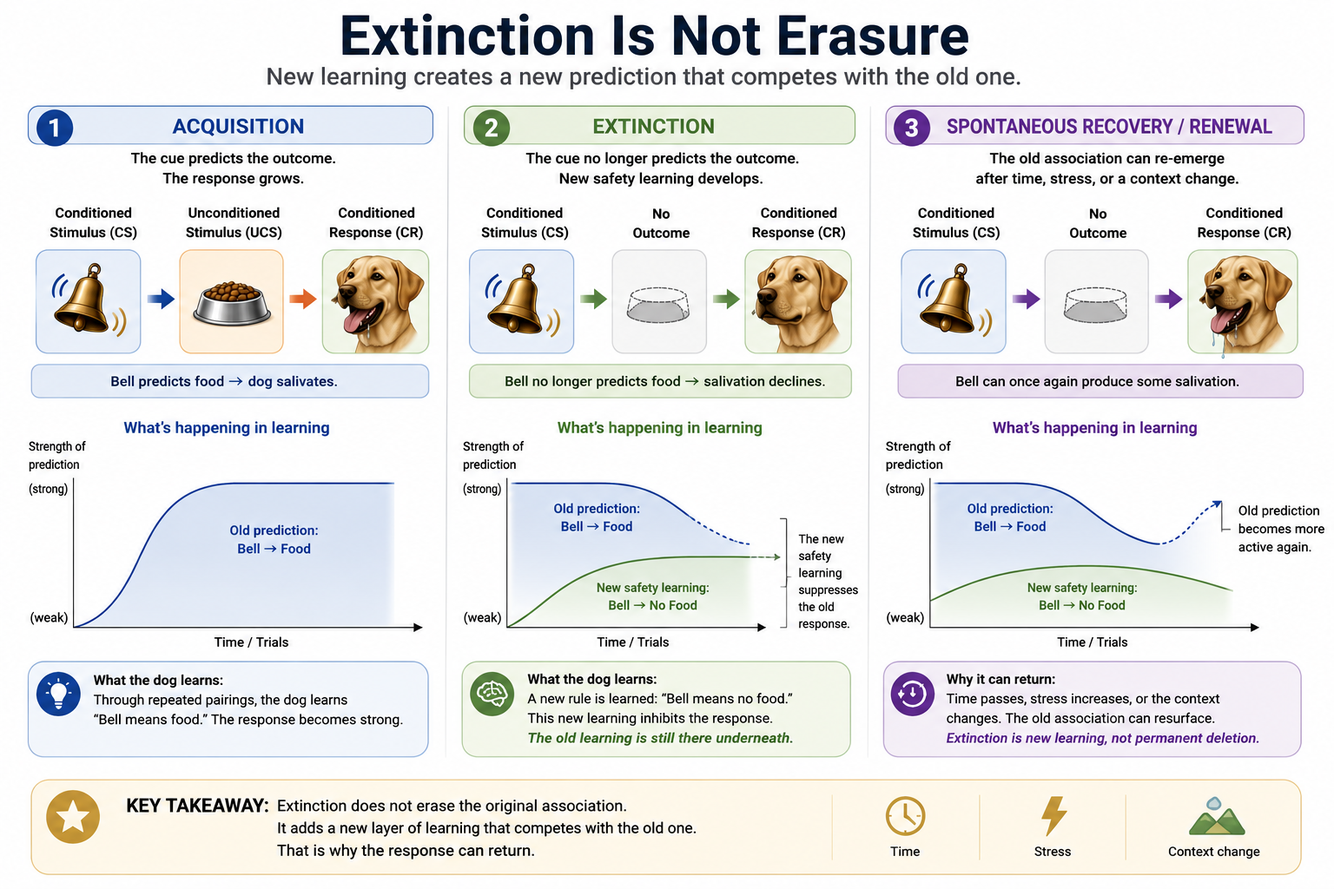
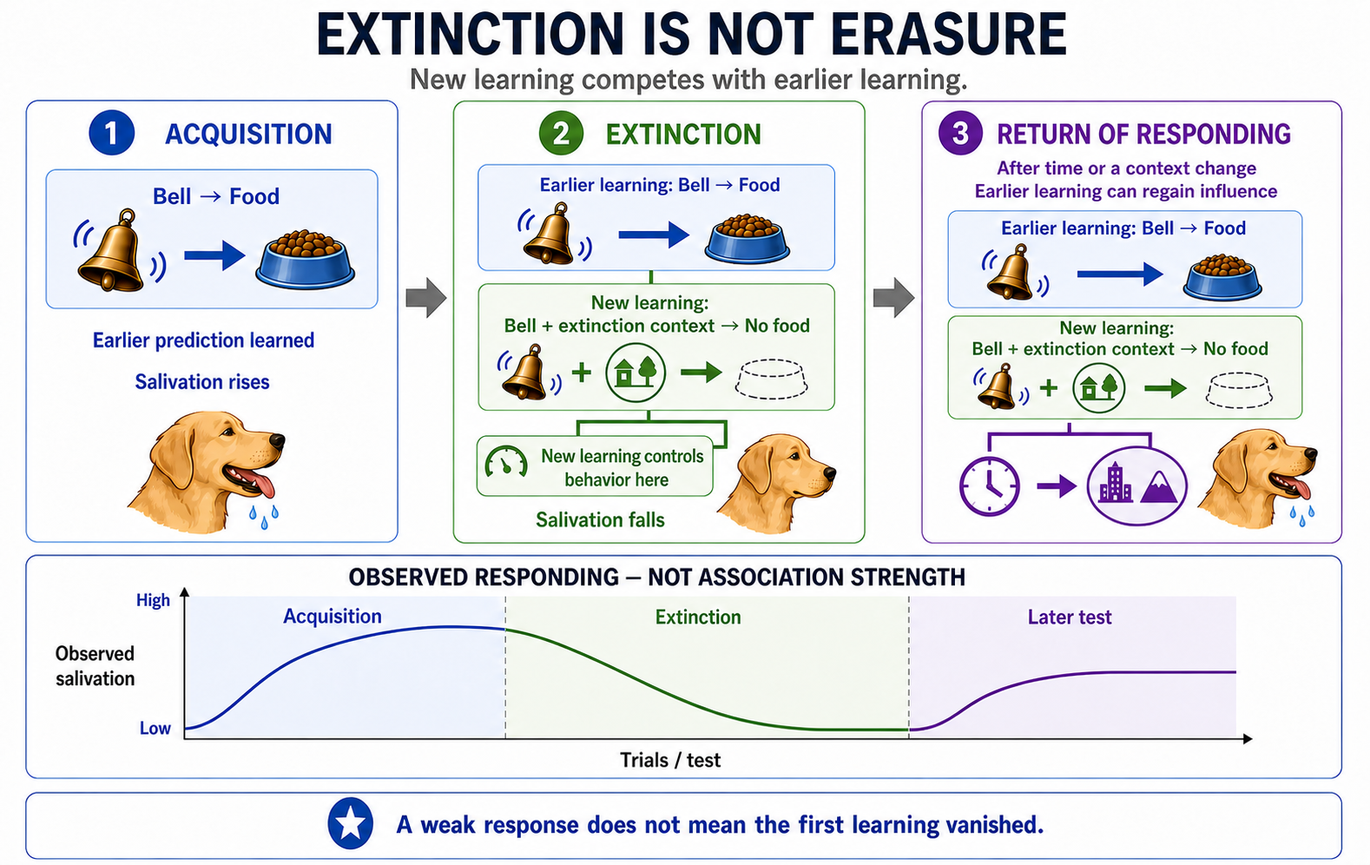
Fix Figure 7.2 extinction learning diagram
Project log: 2026-08-16 - Figure 7.2 Rebuilt to Separate Extinction Learning from Observed Responding

diff --git a/docs/chapters/07-learning.html b/docs/chapters/07-learning.html
@@ -44,7 +44,7 @@
 </div>
 <p><strong>Acquisition</strong> is the initial learning period, when the CS begins to predict the UCS and conditioned responding develops. If the CS later occurs repeatedly without the UCS — Pavlov&#39;s tone sounds but food never follows — responding weakens. This is <strong>extinction</strong>. Extinction does not reliably return the organism to its pre-learning state. Instead, the organism learns a new relationship: in this context, the CS no longer predicts the UCS.</p>
 <p>That distinction explains why extinguished responding can return. <strong>Spontaneous recovery</strong> is the reappearance of a weakened CR after time has passed. <strong>Renewal</strong> is the return of responding when the CS is encountered outside the context in which extinction occurred. Reinstatement and stress can also help older learning regain control. Extinction begins with a prediction error: the expected UCS fails to arrive. That mismatch teaches a new, context-sensitive relationship that competes with acquisition while leaving the earlier learning available.</p>
-<figure class="chapter-figure expandable"><a class="figure-expand-toggle" href="../images/ch07/fig_extinction_not_erasure.png" aria-label="Expand figure" aria-expanded="false"><img src="../images/ch07/fig_extinction_not_erasure.png" alt="Three-panel diagram of acquisition, extinction, and return of responding. Acquisition strengthens a bell-to-food prediction. Extinction adds a context-sensitive bell-to-no-food prediction that competes with the original. Spontaneous recovery or renewal shows the original relation regaining influence after time, stress, or a context change." /></a><figcaption><strong>Figure 7.2.</strong> Extinction is new learning, not simple erasure. A new prediction competes with the original association, so responding can remain low in the extinction context yet return after time or a context change. The diagram is a teaching model, not a literal map of stored associations.</figcaption></figure>
+<figure class="chapter-figure expandable"><a class="figure-expand-toggle" href="../images/ch07/fig_extinction_not_erasure.png" aria-label="Expand figure" aria-expanded="false"><img src="../images/ch07/fig_extinction_not_erasure.png" alt="Three-stage infographic separating inferred learning from observed responding. Acquisition shows Bell to Food learning with salivation rising. During extinction, the earlier Bell to Food relationship remains visible while a new Bell plus extinction context to No food relationship controls behavior and salivation falls. After time or a context change, the earlier learning may regain influence and salivation may return. A lower curve is explicitly labeled observed responding, not association strength." /></a><figcaption><strong>Figure 7.2.</strong> Extinction adds new, context-sensitive learning rather than erasing the earlier relationship. Responding falls when the new Bell + extinction context → No food relationship controls behavior, but the earlier Bell → Food relationship remains available. After time or a context change, the earlier learning can regain influence and responding may return. The lower curve shows observable responding, not stored association strength.</figcaption></figure>
 <p>Two more processes round out the basic toolkit. <strong>Generalization</strong> is the tendency for a CR to occur to stimuli that resemble the original CS. A dog conditioned to one tone may also salivate to a similar tone that was never paired with food. <strong>Discrimination</strong> is learning to respond differently to similar stimuli because they predict different outcomes. These are not opposite theories. Generalization can occur because two cues are perceptually difficult to distinguish or because the organism has not learned that their differences predict different outcomes. Discrimination requires both detecting a difference and learning that the difference matters. This is where sensation and learning meet: experience can sharpen responding only when the sensory system provides information that can be used.</p>
 <div class="callout callout--classic-study" id="classic-study-watson-and-rayners-little-albert"><div class="callout-title">Classic Study: Watson and Rayner&#39;s &quot;Little Albert&quot;</div><p>In 1920, John B. Watson and Rosalie Rayner attempted to condition fear in an infant they called &quot;Albert B.&quot; Albert initially showed little fear of a white rat. Watson and Rayner then paired the rat with a loud noise made by striking a steel bar behind him. After several pairings, Albert sometimes cried, withdrew, or tried to move away when the rat appeared without the noise. Watson and Rayner also reported responses to other furry objects, which they interpreted as generalization (Watson &amp; Rayner, 1920).</p>
 <p>Little Albert is memorable, but it is weak evidence by modern standards: one infant, no control group, inconsistent response measurement, and uncertain generalization. The ethics are clearer. Watson and Rayner deliberately produced distress and did not complete a deconditioning procedure before Albert left the hospital. Treat the study as a historically important, ethically troubling illustration of conditioned emotional responding — not as a definitive explanation of how human phobias develop (Harris, 1979).</p></div><div class="callout callout--stop-retrieve">

diff --git a/HANDOFF.md b/HANDOFF.md
@@ -1,13 +1,13 @@
 # Psych101 — Current Handoff
 
-**Last updated:** 2026-08-16 (Figure 4.6 / F-017 repaired and installed; the bookwide figure queue now continues with Figure 7.2 / F-018. Chapter 4 figure metadata and the temporary figure audit were reconciled; the redundant duplicate Figure 4.6 PNG was removed while the editable SVG source was retained.)
+**Last updated:** 2026-08-16 (Figure 7.2 / F-018 repaired and installed; the bookwide figure queue now continues with Figure 7.9 / F-019. Chapter 7 source, generated HTML, figure metadata, durable inventory, and the temporary figure audit are synchronized.)
 **Canonical repository:** `C:\GitHub\psych101`
 
 This file records current state only. See `GPT_project_log.md` for completed-work history, `PROJECT_BACKLOG.md` for durable deferred work, and `AGENTS.md` for operating rules.
 
 ## Current state
 
-**Figure 4.6 (F-017) is resolved as of 2026-08-16.** The former artwork claimed “same pixels” while visibly showing different rendered side scenes. The replacement presents one fixed digital image once, then branches into two alternative illumination assumptions and two inferred surface-color interpretations. The corrected PNG was installed at the chapter’s existing `ch04_same_pixels_illumination_assumptions_v1.png` path, so neither chapter Markdown nor generated HTML required a path change. An editable companion SVG, `docs/images/ch04/ch04_same_input_two_illumination_models.svg`, is retained. The temporary figure audit and Chapter 4 image metadata now record the repair. The ranked queue continues with Figure 7.2 (F-018), the extinction/inhibitory-learning figure.
+**Figure 7.2 (F-018) is resolved as of 2026-08-16.** The former artwork visibly weakened the old Bell → Food prediction during extinction, contradicting the chapter's account of competing, context-sensitive learning. The replacement keeps the earlier relationship available, adds Bell + extinction context → No food learning, and puts acquisition, extinction, and partial return on one lower curve explicitly labeled as observed responding rather than association strength. A final instructor-approved refinement added a clock-to-new-context cue to make spontaneous recovery/renewal legible without adding more prose. The replacement was installed at the existing `docs/images/ch07/fig_extinction_not_erasure.png` path; Chapter 7 source, generated HTML, metadata, durable inventory, and the temporary audit are synchronized. The chapter linter passes 14/14; the coherence checker has no hard failures; expanded/collapsed browser checks at five viewports found no horizontal overflow or console errors. The ranked queue continues with Figure 7.9 (F-019), the task/population boundary in the dopamine prediction-error artwork.
 
 **The Ch13/Ch10 spine-question item from the 2026-08-09 audit is closed as of 2026-08-12.** Ch13's registered spine question — "When does a protective model become costly?" — is now installed via three seam sentences (Section 1 maintenance lens, the anxiety section's existing Nesse citation, and the Chapter Summary, added alongside rather than replacing "symptoms are evidence, not verdicts"). Ch10's opening framing question now reads "Why does it take humans so much longer to grow up than other animals?", matching its own registered question verbatim. `pipeline/lint_chapters.py` passes 14/14; the coherence checker's Ch10 spine-question flag is gone, and Ch13's remains as a documented, non-blocking checker limitation (verbatim-substring matching against paraphrased seams) — see `GPT_project_log.md`, 2026-08-12, for the literature check (Nesse, 2005) and full detail. Committed as `dda3c82` (2026-08-12).
 
@@ -41,7 +41,7 @@ This file records current state only. See `GPT_project_log.md` for completed-wor
 
 Chapter 3's former signaling/autonomic problem is also resolved. Figures 3.5 and 3.6 now separate focal synaptic signaling from slower HPA-axis hormonal signaling. The autonomic replacement is Figure 3.10 and retains the sympathetic/parasympathetic learning objective through four organ-specific comparisons, without cortisol, HPA, SAM, adrenal-medullary, or adrenaline content. The old combined-messenger and autonomic binaries remain preserved but unwired. Chapter 3 now has a continuous 3.1–3.11 sequence; its rebuilt page passed the chapter linter and desktop/390 × 844 browser checks.
 
-**A temporary bookwide figure-audit catalog is active.** Before starting or resuming figure work, read `pipeline/audits/bookwide-figure-audit-TEMP.md`. It records the current ranked issue queue, proposed fixes, and repair effort without replacing chapter Markdown or `source/visuals-inventory.md` as authority. Keep it current during this finite pass, then delete it using the deletion gate in the file. Figure 7.5 now shows the Garcia–Koelling experiment as compound-cue drinking, illness-versus-shock outcomes, and separated cue tests, rather than four separately trained pairings. Figure 8.1 retains its useful three-stage map but now identifies Atkinson-Shiffrin as a classic model, marks `7 ± 2` as a classic estimate beneath the sharper capacity lesson, and replaces literal “unlimited”/“lifetime” labels. The instructor retained Figure 6.1 for the current edition because its direct active-maintenance lesson outweighs the cost of adding glymphatic qualifications to the artwork; Figure 6.5 is likewise deferred. Both may be reassessed in a future book revision. **Figures 4.4 (F-016) and 4.6 (F-017) are resolved.** Figure 4.4 now uses an explicit Retina → LGN → Cortex pathway and realistic overlapping S/M/L cone curves. Figure 4.6 now shows one fixed digital image branching into two illumination assumptions rather than two different scenes labeled “same pixels.” See `GPT_project_log.md` for Figure 4.4's 2026-08-12 repair record; the current temporary audit contains the authoritative status for the active queue. The ranked queue now continues with Figure 7.2 (F-018).
+**A temporary bookwide figure-audit catalog is active.** Before starting or resuming figure work, read `pipeline/audits/bookwide-figure-audit-TEMP.md`. It records the current ranked issue queue, proposed fixes, and repair effort without replacing chapter Markdown or `source/visuals-inventory.md` as authority. Keep it current during this finite pass, then delete it using the deletion gate in the file. Figure 7.5 now shows the Garcia–Koelling experiment as compound-cue drinking, illness-versus-shock outcomes, and separated cue tests, rather than four separately trained pairings. Figure 8.1 retains its useful three-stage map but now identifies Atkinson-Shiffrin as a classic model, marks `7 ± 2` as a classic estimate beneath the sharper capacity lesson, and replaces literal “unlimited”/“lifetime” labels. The instructor retained Figure 6.1 for the current edition because its direct active-maintenance lesson outweighs the cost of adding glymphatic qualifications to the artwork; Figure 6.5 is likewise deferred. Both may be reassessed in a future book revision. **Figures 4.4 (F-016), 4.6 (F-017), and 7.2 (F-018) are resolved.** Figure 4.4 now uses an explicit Retina → LGN → Cortex pathway and realistic overlapping S/M/L cone curves. Figure 4.6 now shows one fixed digital image branching into two illumination assumptions rather than two different scenes labeled “same pixels.” Figure 7.2 now distinguishes competing learning from the observed response curve. The current temporary audit contains the authoritative status for the active queue, which now continues with Figure 7.9 (F-019).
 
 **The repository is mixed.** Preserve every unrelated change. The deck-pilot files above are a distinct scope: do not modify, remove, stage, or characterize them as part of the chapter/ledger sequence, and equally do not let the ledger audit touch them.
 
@@ -51,7 +51,7 @@ A further pass — purging the ~225 MB of genuine old-version blob history with 
 
 ## Immediate next actions
 
-1. **Continue the ranked figure queue** with Figure 7.2 (F-018): the current extinction figure visibly weakens the “old prediction,” even though the chapter's central account is inhibitory/new learning in which the original association remains available. Keep the old association stable and show contextual/inhibitory learning suppressing its expression, or relabel the changing curve as observed responding.
+1. **Continue the ranked figure queue** with Figure 7.9 (F-019): the current artwork generalizes a task-specific dopamine-neuron pattern to dopamine broadly, while the source caption is better bounded. Put the recorded population/task boundary into the title and visible labels rather than leaving it only in the caption.
 2. **Closed 2026-08-15:** the theoretical-spine cognitive-light-cone ownership note. Checked directly — `theoretical-spine.md` §3 (the citation/attribution framing, "attribute to Levin, not the course") really was fixed 2026-07-26, but that was a *different* issue from the one `GPT_project_log.md` (2026-07-27) actually flagged as open: Ch. 5's own section (then L386) still presented the cognitive light cone as a live Ch. 5 framework note, even though Ch. 5's spine-seed pass explicitly declined it (D5) in favor of Ch. 12. Re-pointed that entry today with an inline note; no chapter prose touched, `pipeline/theoretical-spine.md` only. Later project items remain: Chapter 7's missing Figure 7.8 decision, Chapter 2's no-first-person scope, and Chapter 11 Thread B.
 3. **Minor chapter-level polish item surfaced by the ledger audit, not urgent:** Chapter 13's Therapeutic alliance paragraph cites Barth et al. (2013) in the reference list but never inline in body prose — an orphaned citation, not a factual error. Fold into a future Chapter 13 pass rather than a standalone edit.
 4. **Deck pilot, independent of everything above:** generate/rebuild decks per chapter with `python pipeline/build_chapter_deck.py <n>` as needed for this semester's teaching; instructor edits directly in PowerPoint. The ingest mechanism is deliberately parked until after the semester — see the current-state note above; do not resurface it as a next action.
@@ -69,7 +69,7 @@ The deck pilot is a second, non-overlapping scope: `pipeline/build_chapter_deck.
 
 The completed Chapter 2 figure audit is a third, non-overlapping scope: `docs/images/ch02/ch02_reliability_validity_accuracy_precision.png`, `docs/images/ch02/ch02_correlation_direction_strength.svg`, `docs/images/ch02/fig2-5-random-sampling-vs-assignment.svg`, `docs/images/ch02/fig_experiment_flowchart.svg`, `docs/images/ch02/README_captions_alt_text_attribution.md`, `source/visuals-inventory.md`, plus this handoff and the matching project-log entry. Keep it separate from both the ledger sequence and deck pilot.
 
-The active bookwide figure-repair pass is a fourth scope: `pipeline/audits/bookwide-figure-audit-TEMP.md`, the exact figure assets and per-chapter metadata named by resolved rows, their authoritative chapter Markdown, regenerated chapter HTML, `source/visuals-inventory.md`, this handoff, and matching project-log entries. Figures 12.3, 9.3, 8.1, 7.5, 6.2, 6.3, 6.4, 4.2, 4.4, 4.5, 4.6, 4.9, 2.3, 1.2, and the Chapter 3 signaling/autonomic sequence are resolved; preserve all unrelated chapter, ledger, and deck-pilot changes. Figure 1.1's responsive prototype remains deliberately unwired until the higher-priority queue is complete.
+The active bookwide figure-repair pass is a fourth scope: `pipeline/audits/bookwide-figure-audit-TEMP.md`, the exact figure assets and per-chapter metadata named by resolved rows, their authoritative chapter Markdown, regenerated chapter HTML, `source/visuals-inventory.md`, this handoff, and matching project-log entries. Figures 12.3, 9.3, 8.1, 7.2, 7.5, 6.2, 6.3, 6.4, 4.2, 4.4, 4.5, 4.6, 4.9, 2.3, 1.2, and the Chapter 3 signaling/autonomic sequence are resolved; preserve all unrelated chapter, ledger, and deck-pilot changes. Figure 1.1's responsive prototype remains deliberately unwired until the higher-priority queue is complete.
 
 Repository hygiene is a fifth, non-overlapping scope: `.gitignore`, `.git` itself (gc/prune/eventual history rewrite), and the OneDrive archive at `C:\Users\oxfor\OneDrive\z Teaching\zzz Psych101_archive\` (moved-out cruft and pending images/docx, plus the pre-rewrite backup bundle under `_pre-filter-repo-backup\`). Touches no chapter, ledger, or deck-pilot files.
 

diff --git a/GPT_project_log.md b/GPT_project_log.md
@@ -10,6 +10,18 @@ Repository rules and conventions live in `AGENTS.md`, not here. Current state an
 
 ## Log Entries
 
+### 2026-08-16 - Figure 7.2 Rebuilt to Separate Extinction Learning from Observed Responding (Codex + Instructor via OpenAI Image Generation)
+
+**Scope:** Continued the ranked bookwide figure-repair queue by resolving F-018. The former Figure 7.2 showed the old Bell → Food prediction weakening during extinction, contradicting both the adjacent chapter prose and the evidence-commitment boundary that extinction adds competing, context-sensitive learning while earlier learning remains available. The instructor reviewed and approved a replacement design in chat, then approved installation.
+
+**Files changed:** `docs/images/ch07/fig_extinction_not_erasure.png` was replaced in place with a 1578 × 996 three-stage infographic. It keeps the earlier Bell → Food relationship visible, adds Bell + extinction context → No food learning, separates inferred learning from a single observed-salivation curve, and uses a clock-to-new-context cue for return of responding. `source/chapters/ch07-learning.md` received synchronized alt text and caption; `docs/chapters/07-learning.html` was regenerated from source; `docs/images/ch07/README_captions_alt_text_attribution.md` now records caption, alt text, generation method, public-sharing status, schematic-data status, and interpretation boundary; `source/visuals-inventory.md` and `pipeline/audits/bookwide-figure-audit-TEMP.md` record the resolved state. `HANDOFF.md` now points the ranked queue to Figure 7.9 / F-019.
+
+**Validation:** The installed PNG hash matches the instructor-approved generated artifact (`SHA-256 215495B2117FF5DE5B6BF10FD95920225CC18A52849FF735766F518F538657F4`). `python -X utf8 pipeline/lint_chapters.py` passes 14/14. `python -X utf8 pipeline/check_chapter_coherence.py source/chapters/ch07-learning.md` reports no hard failures; its one apostrophe-anchor REVIEW is the documented pre-existing checker false positive, while the generated HTML target remains valid. The repository Playwright regression could not start because plain Node lacked `playwright` and the bundled runtime lacked `playwright-core`; equivalent local rendered-page checks were completed in the in-app browser at 1366×768, 1024×768, 812×375, 390×844, and 375×812. Collapsed and expanded Figure 7.2 produced no horizontal page/image overflow, the browser loaded the PNG at 1578 × 996, and console/error inspection was clean. `git diff --check` reports no whitespace errors.
+
+**Remaining:** The next ranked figure item is Figure 7.9 / F-019, whose artwork generalizes a task-specific dopamine-neuron pattern too broadly.
+
+**Session stop point:** Work paused after Figure 7.2 was installed, reconciled, and validated. Resume with read-only inspection of Figure 7.9 and its surrounding source/evidence before proposing or generating any replacement.
+
 ### 2026-08-15 - Theoretical-Spine Cognitive-Light-Cone Ownership Note Re-Pointed; HANDOFF Refreshed (Claude Code)
 
 **Scope:** Two small, unrelated pieces of session housekeeping, at the instructor's request. (1) `HANDOFF.md` described several 2026-08-11/12 items as "not committed"; `git log` and `git status` confirmed all of them had since landed on `main` (through `35c1b35`, matching `origin/main` exactly), so the file was stale, not the repo. (2) The instructor decided to generate and hand-edit lecture decks directly in PowerPoint for the current semester and deferred the PowerPoint-edit ingest mechanism until after the semester's changes settle; while checking the next-actions list to confirm nothing conflicted, one item — "`theoretical-spine.md` §3 may already have been amended 2026-07-26" — turned out to conflate two different fixes and was checked directly rather than left as a hopeful hedge.

diff --git a/pipeline/audits/bookwide-figure-audit-TEMP.md b/pipeline/audits/bookwide-figure-audit-TEMP.md
@@ -51,7 +51,7 @@
 | F-015 | P2 | Figure 8.1 | RESOLVED 2026-07-30 | `7 ± 2`, “unlimited,” and “lifetime” appeared as current literal properties rather than features of a classic simplified model. | Retained the three-stage teaching map, labeled it as the classic model, marked `7 ± 2` as a classic estimate beneath the durable “sharply limited” lesson, and replaced the long-term absolutes with “very large capacity” and “some memories last decades.” Source prose, caption, alt text, and metadata were synchronized. | S–M |
 | F-016 | P2 | Figure 4.4 | RESOLVED 2026-08-12 | “Eye” versus “brain” creates a false boundary for opponent processing, which begins in downstream retinal circuitry and continues centrally. | Regenerated as v2 (GPT image generation, instructor-reviewed through two rounds): replaced the “Eye”/“Brain” location labels with an explicit Retina → LGN → Cortex pathway, and corrected the cone-response curves to realistic overlapping S/M/L peaks, removing a duplicated-curve rendering artifact in the process. Caption and alt text updated to match. Passed the five-viewport expansion check (no page or image overflow at 1366×768, 1024×768, 812×375, and 375×812, in addition to native desktop). | S–M |
 | F-017 | P2 | Figure 4.6 | RESOLVED 2026-08-16 | The former artwork asserted “same pixels” while showing different rendered side scenes, so the demonstration itself did not preserve identical input. | Replaced the artwork with one fixed digital image shown once, branching into two alternative illumination assumptions and two inferred surface-color interpretations. The active chapter asset path was replaced in place, so chapter Markdown and generated HTML required no path change; the corrected 1600×900 figure was visually inspected before installation. | M |
-| F-018 | P2 | Figure 7.2 | OPEN | The “old prediction” visibly weakens during extinction even though the figure's central claim is that the association remains available. | Keep the old association stable and show new contextual/inhibitory learning suppressing its expression, or relabel the curve as observed responding. | M |
+| F-018 | P2 | Figure 7.2 | RESOLVED 2026-08-16 | The former artwork made the “old prediction” visibly weaken during extinction even though the figure's central claim was that the association remains available. | Replaced it with a three-stage infographic that keeps the earlier Bell → Food relationship visible, adds context-sensitive Bell + extinction context → No food learning, and labels the single lower curve as observed responding rather than association strength. A clock-to-new-context cue distinguishes return after time or context change. Caption, alt text, figure metadata, and durable inventory were synchronized. The rebuilt chapter passed the linter; the coherence checker had no hard failures; expanded/collapsed browser checks at 1366×768, 1024×768, 812×375, 390×844, and 375×812 found no horizontal overflow or console errors. | M |
 | F-019 | P2 | Figure 7.9 | OPEN | The image generalizes a task-specific dopamine-neuron pattern to dopamine broadly; the source caption is better bounded than the artwork. | Put the population/task boundary in the title and visible labels, not only the caption. | S |
 | F-020 | P2 | Figure 10.1 | OPEN | The figure describes an interacting/co-evolving system, but all contributor arrows point one way toward extended development. | Add reciprocal links or remove the reciprocity/co-evolution claim from the artwork and alt text. | S–M |
 | F-021 | P2 | Figure 9.5 | OPEN | System 1/System 2 are reified as two systems with absolutes such as “fully conscious” and “handles most of life.” | Present them as contrasting processing tendencies and remove module-like or absolute language. | S–M |

diff --git a/source/chapters/ch07-learning.md b/source/chapters/ch07-learning.md
@@ -57,9 +57,9 @@ Repeated pairing often produces conditioning, but repetition is not the whole me
 
 That distinction explains why extinguished responding can return. **Spontaneous recovery** is the reappearance of a weakened CR after time has passed. **Renewal** is the return of responding when the CS is encountered outside the context in which extinction occurred. Reinstatement and stress can also help older learning regain control. Extinction begins with a prediction error: the expected UCS fails to arrive. That mismatch teaches a new, context-sensitive relationship that competes with acquisition while leaving the earlier learning available.
 
-![Three-panel diagram of acquisition, extinction, and return of responding. Acquisition strengthens a bell-to-food prediction. Extinction adds a context-sensitive bell-to-no-food prediction that competes with the original. Spontaneous recovery or renewal shows the original relation regaining influence after time, stress, or a context change.](../images/ch07/fig_extinction_not_erasure.png)
+![Three-stage infographic separating inferred learning from observed responding. Acquisition shows Bell to Food learning with salivation rising. During extinction, the earlier Bell to Food relationship remains visible while a new Bell plus extinction context to No food relationship controls behavior and salivation falls. After time or a context change, the earlier learning may regain influence and salivation may return. A lower curve is explicitly labeled observed responding, not association strength.](../images/ch07/fig_extinction_not_erasure.png)
 
-*Figure 7.2. Extinction is new learning, not simple erasure. A new prediction competes with the original association, so responding can remain low in the extinction context yet return after time or a context change. The diagram is a teaching model, not a literal map of stored associations.*
+*Figure 7.2. Extinction adds new, context-sensitive learning rather than erasing the earlier relationship. Responding falls when the new Bell + extinction context → No food relationship controls behavior, but the earlier Bell → Food relationship remains available. After time or a context change, the earlier learning can regain influence and responding may return. The lower curve shows observable responding, not stored association strength.*
 
 Two more processes round out the basic toolkit. **Generalization** is the tendency for a CR to occur to stimuli that resemble the original CS. A dog conditioned to one tone may also salivate to a similar tone that was never paired with food. **Discrimination** is learning to respond differently to similar stimuli because they predict different outcomes. These are not opposite theories. Generalization can occur because two cues are perceptually difficult to distinguish or because the organism has not learned that their differences predict different outcomes. Discrimination requires both detecting a difference and learning that the difference matters. This is where sensation and learning meet: experience can sharpen responding only when the sensory system provides information that can be used.
 

diff --git a/docs/images/ch07/README_captions_alt_text_attribution.md b/docs/images/ch07/README_captions_alt_text_attribution.md
@@ -1,5 +1,18 @@
 # Chapter 7 Figure Metadata
 
+## Figure 7.2 — Extinction is not erasure
+
+- **File:** `fig_extinction_not_erasure.png` (1578 × 996 rendered asset).
+- **Caption:** Extinction adds new, context-sensitive learning rather than erasing the earlier relationship. Responding falls when the new Bell + extinction context → No food relationship controls behavior, but the earlier Bell → Food relationship remains available. After time or a context change, the earlier learning can regain influence and responding may return. The lower curve shows observable responding, not stored association strength.
+- **Alt text:** Three-stage infographic separating inferred learning from observed responding. Acquisition shows Bell to Food learning with salivation rising. During extinction, the earlier Bell to Food relationship remains visible while a new Bell plus extinction context to No food relationship controls behavior and salivation falls. After time or a context change, the earlier learning may regain influence and salivation may return. A lower curve is explicitly labeled observed responding, not association strength.
+- **Origin and attribution:** Original figure generated for Oxford Psychology 101 with OpenAI image generation, 2026.
+- **Creation method:** Built-in OpenAI image generation using the former Figure 7.2 as an edit target, followed by an instructor-approved redesign and a targeted context-change clarification.
+- **External assets:** No external copyrighted image assets were intentionally used.
+- **License / public-sharing status:** Original course artwork; approved for public sharing with the Oxford Psychology 101 textbook after instructor and scientific-accuracy review on 2026-08-16.
+- **Data status:** The observed-salivation curve is a schematic teaching pattern, not measurements reproduced from a particular experiment.
+- **Interpretation boundary:** The two relationships are a teaching model of competing, context-sensitive learning. The curve depicts observable responding and must not be read as a direct measurement of stored association strength.
+- **Figure number in image:** None.
+
 ## Figure 7.4 — Reinforcement schedules
 
 - **Files:** `fig_reinforcement_schedules.svg` (editable source); `fig_reinforcement_schedules.png` (2400 × 1680 rendered asset).

diff --git a/source/visuals-inventory.md b/source/visuals-inventory.md
@@ -150,7 +150,7 @@ All 9 figures are wired.
 | # | Description | Status | Filename / note |
 |---|-------------|--------|-----------------|
 | 7.1 | Classical conditioning diagram | ✅ | `ch07/fig_classical_conditioning_ucs_cs.png` |
-| 7.2 | Extinction is not erasure | ✅ | `ch07/fig_extinction_not_erasure.png` |
+| 7.2 | Extinction is not erasure | ✅ revised/wired/use now | `ch07/fig_extinction_not_erasure.png` — keeps the earlier Bell → Food relationship available while context-sensitive Bell + extinction context → No food learning controls current behavior; the lower curve is explicitly observable responding, not association strength. |
 | 7.3 | Operant conditioning 2×2 | ✅ | `ch07/fig_operant_conditioning_2x2.png` |
 | 7.4 | Reinforcement schedules comparison | ✅ | `ch07/fig_reinforcement_schedules.png` |
 | 7.5 | Garcia and Koelling compound-cue training and selective tests | ✅ wired/use now | `ch07/ch07_garcia_koelling_compound_cue_test.svg` — shows taste plus light/tone together during training, outcome groups, and separated cue tests; replaces the misleading four-pairing matrix. |
